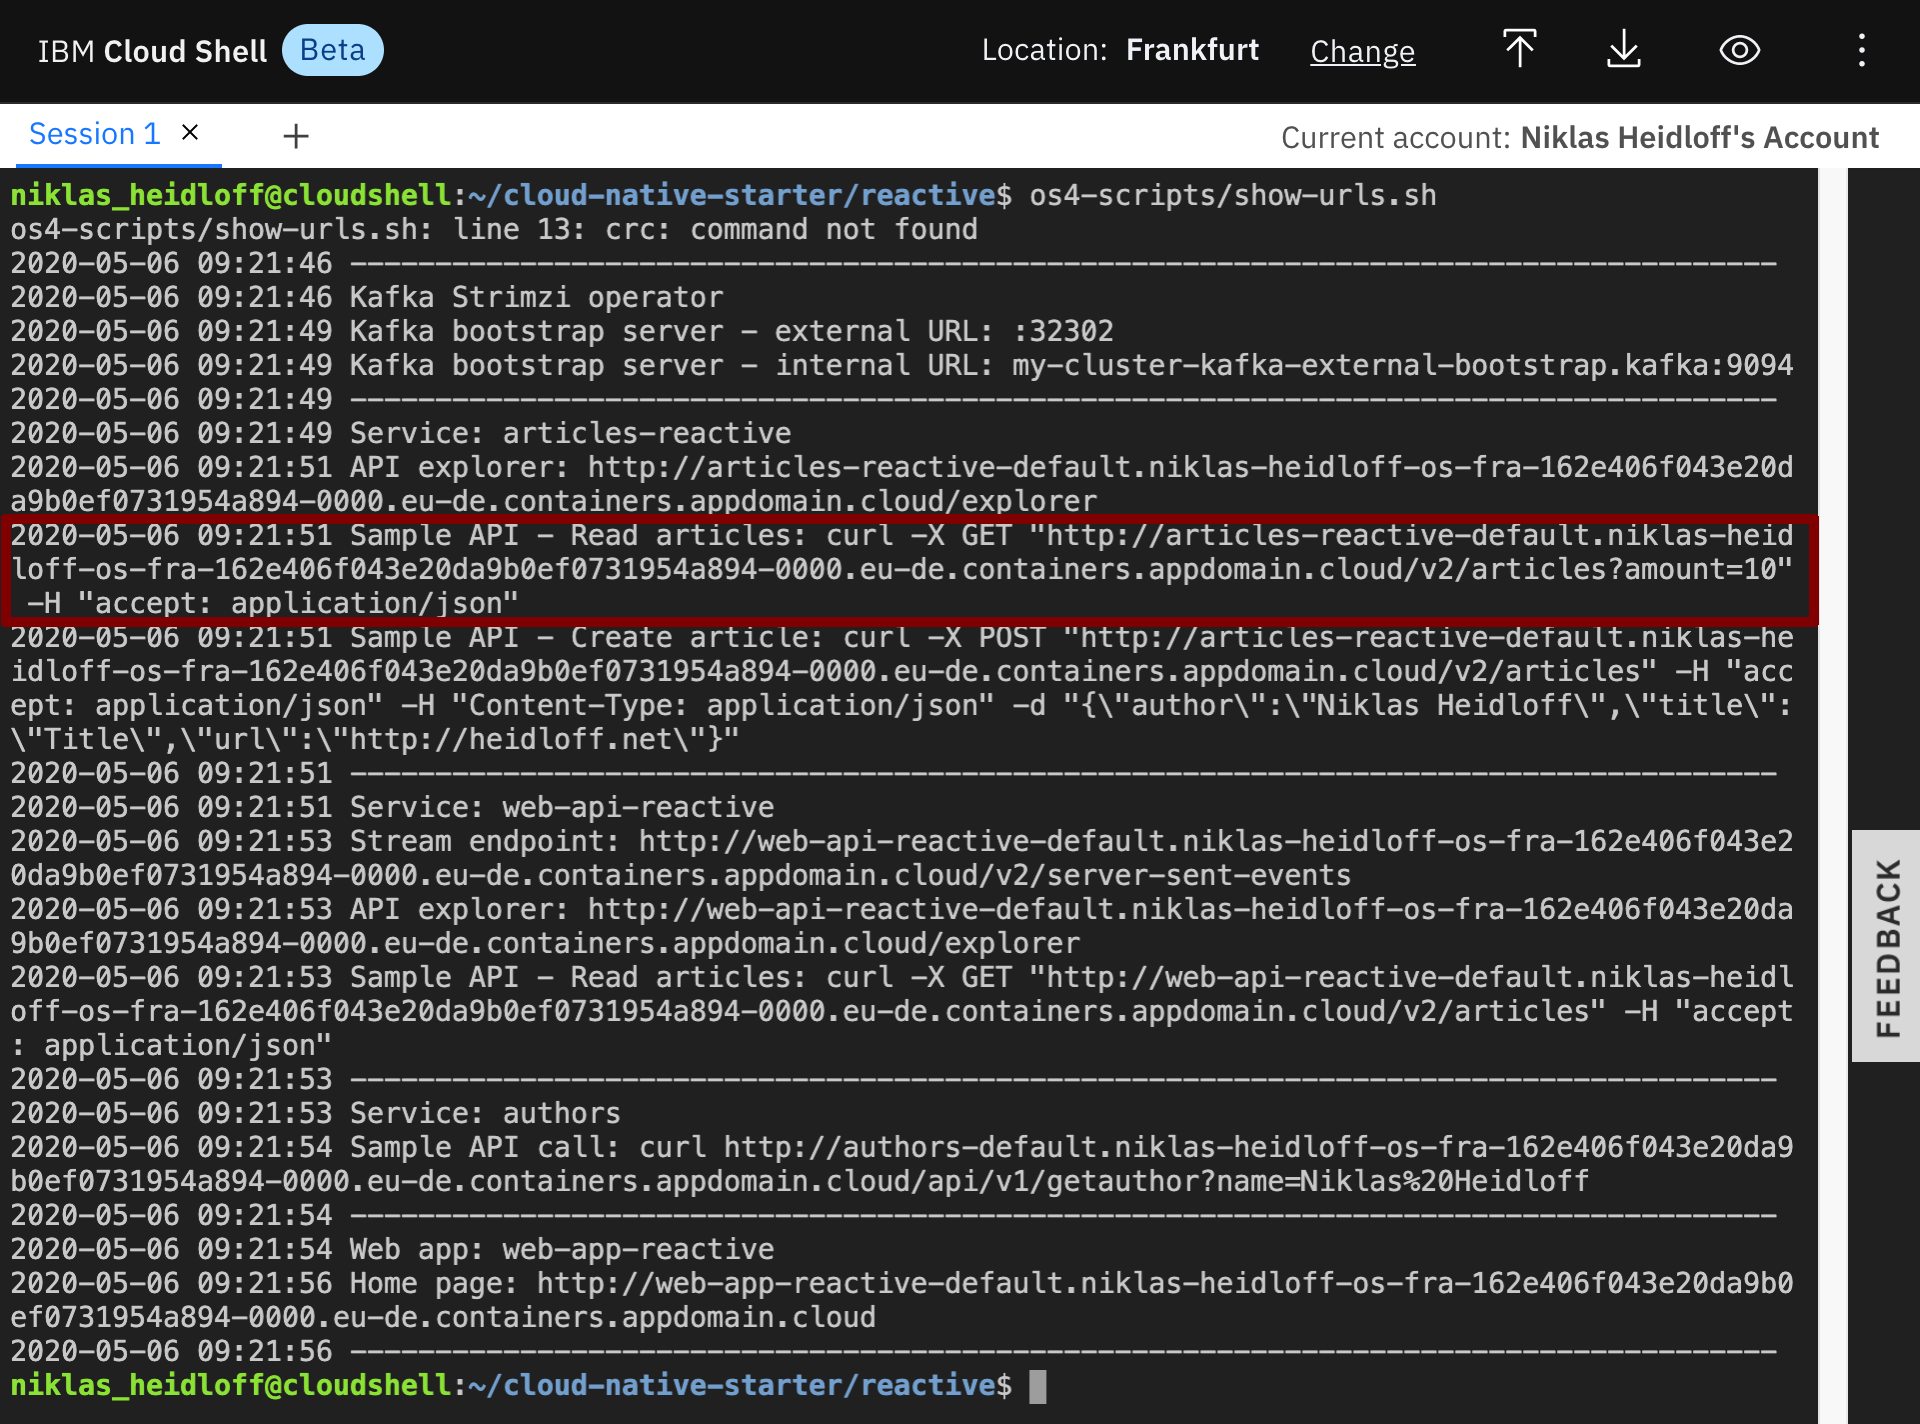
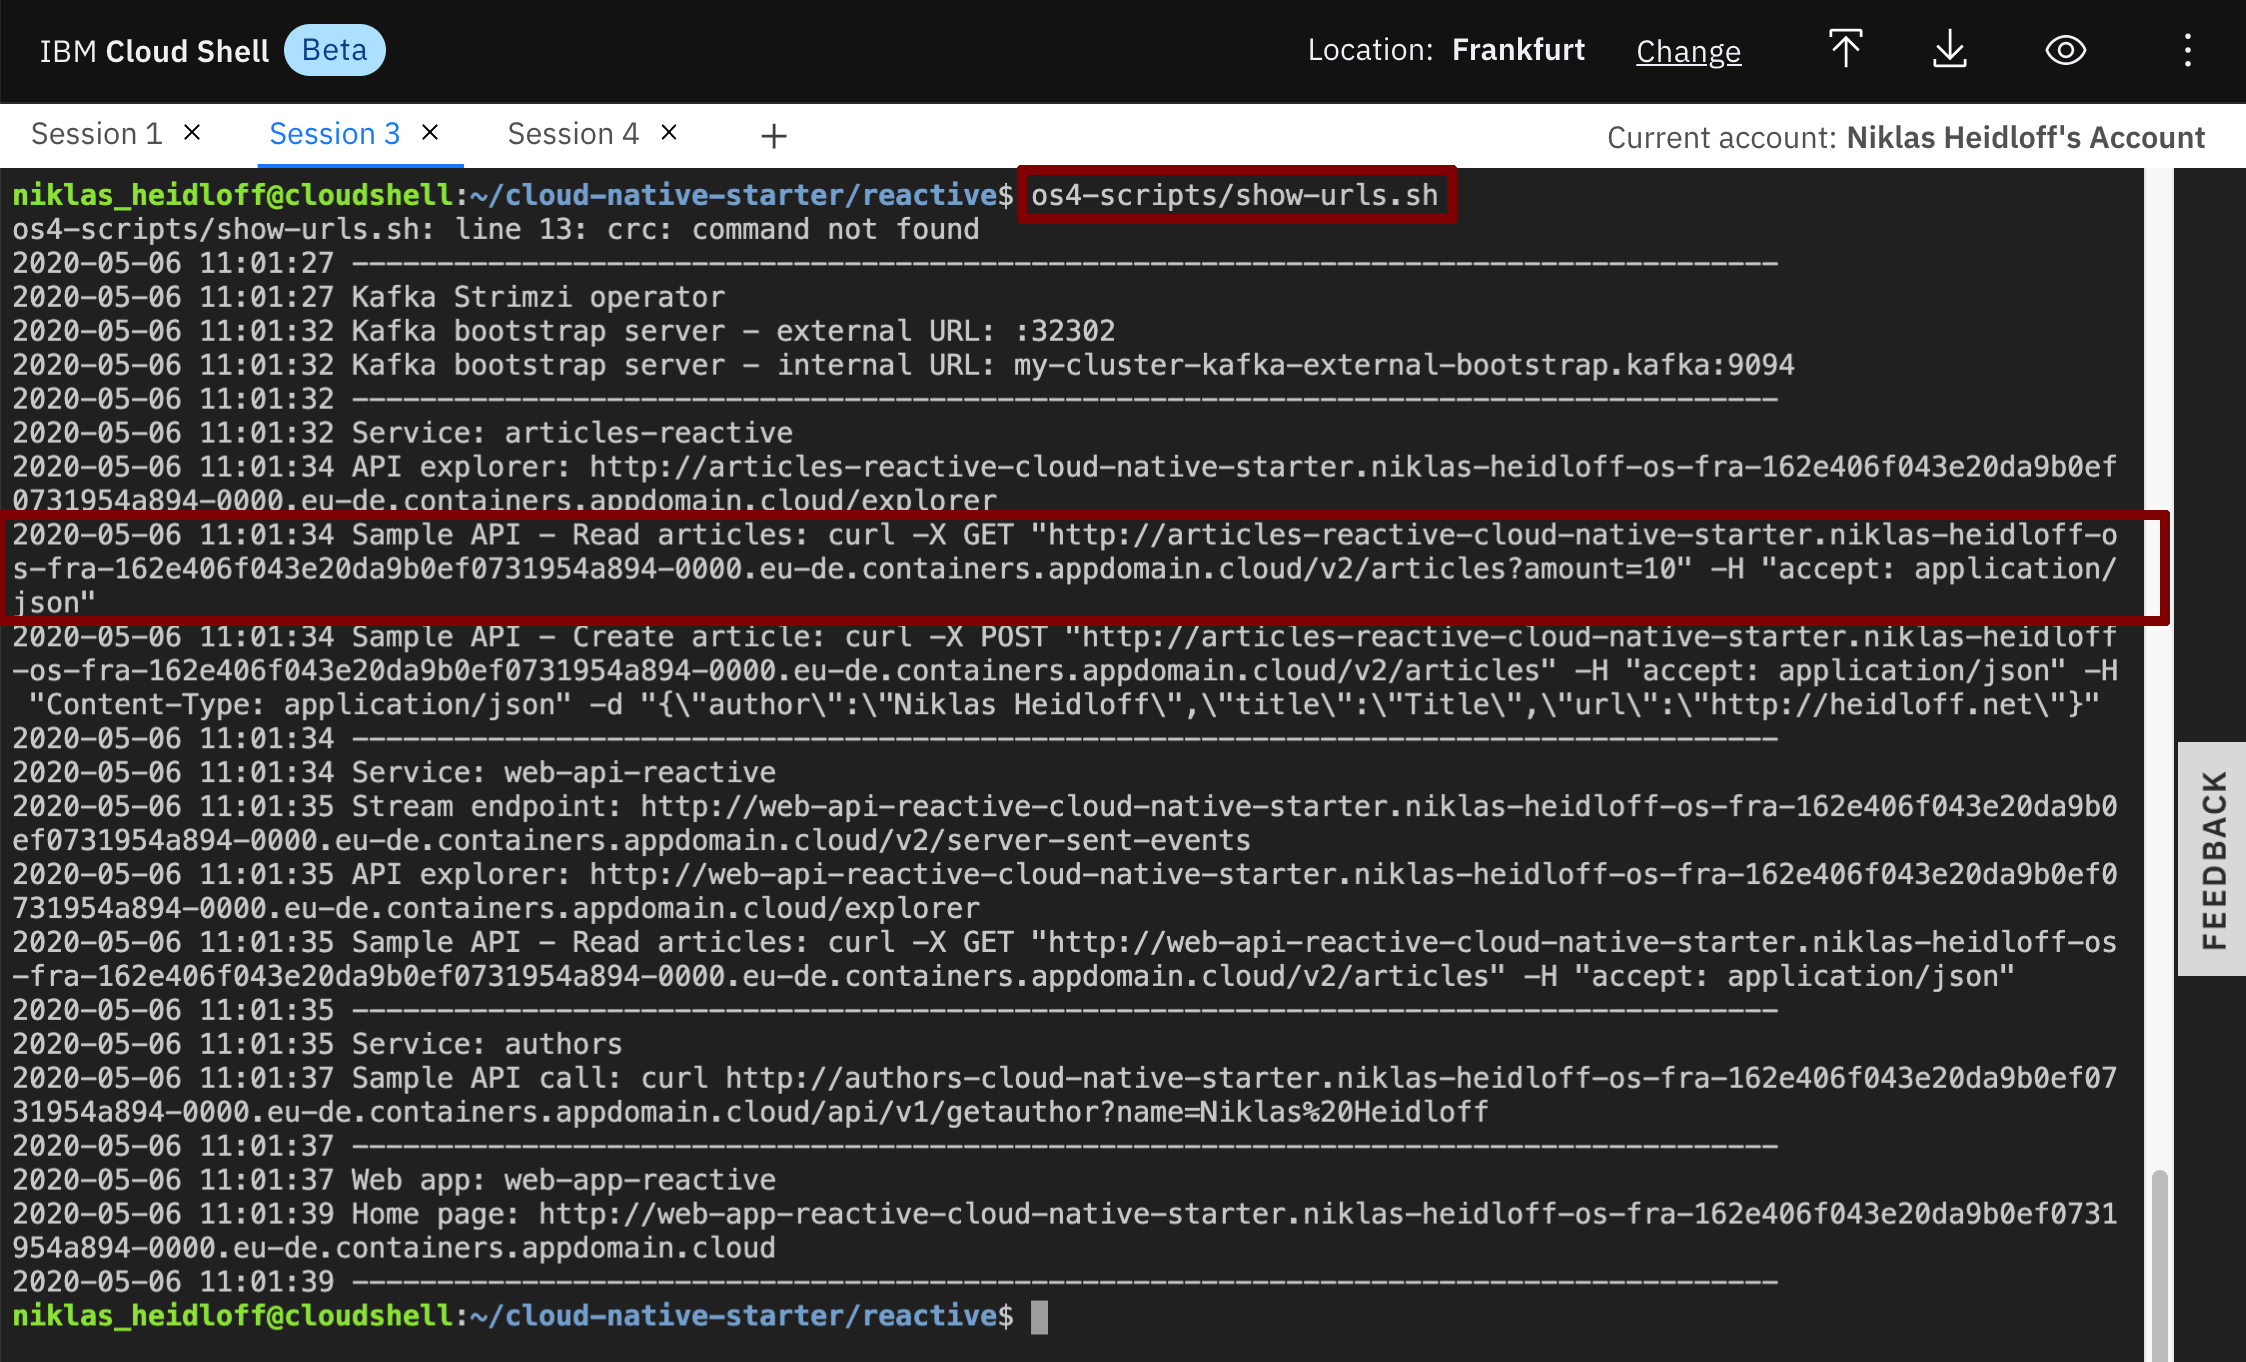
fix paths

diff --git a/finish/rest-json-quickstart/src/main/java/org/acme/rest/json/ArticlesDataAccess.java b/finish/rest-json-quickstart/src/main/java/org/acme/rest/json/ArticlesDataAccess.java
@@ -27,8 +27,6 @@ public class ArticlesDataAccess {
 
     @PostConstruct
     void initialize() {
-
-
         URI apiUrl = UriBuilder.fromUri(urlArticlesServiceOpenShift).build();
         articlesService = RestClientBuilder.newBuilder()
                 .baseUri(apiUrl)
@@ -36,11 +34,17 @@ public class ArticlesDataAccess {
                 .build(ArticlesService.class);
     }
 
+    // Java 8
+    public CompletionStage<List<Article>> getArticlesReactive(int amount) {
+        return articlesService.getArticlesFromService(amount);
+    }
 
+    /*
+    // Java 9 or higher
     public CompletionStage<List<Article>> getArticlesReactive(int amount) {
         return articlesService.getArticlesFromService(amount)
                 .toCompletableFuture()
                 .orTimeout(MAXIMAL_DURATION, TimeUnit.MILLISECONDS);
     }
-
+    */
 }

diff --git a/labs/lab6.md b/labs/lab6.md
@@ -39,7 +39,7 @@ In order to map HTTP response codes to Java exceptions, a ResponseExceptionMappe
 Create the class [InvalidInputParameter.java](https://github.com/nheidloff/workshop-quarkus-openshift-reactive-endpoints/blob/master/finish/rest-json-quickstart/src/main/java/org/acme/rest/json/InvalidInputParameter.java). This exception is thrown by the 'Articles' service when the amount parameter is not correct, for example if the value is negative.
 
 ```
-$ cd ~/rest-json-quickstart/src/main/java/org/acme/rest/json/
+$ cd ~/cloud-native-starter/reactive/rest-json-quickstart/src/main/java/org/acme/rest/json/
 $ touch InvalidInputParameter.java
 $ nano InvalidInputParameter.java
 ```
@@ -66,7 +66,7 @@ Create the class [ExceptionMapperArticles.java](https://github.com/nheidloff/wor
 
 
 ```
-$ cd ~/rest-json-quickstart/src/main/java/org/acme/rest/json/
+$ cd ~/cloud-native-starter/reactive/rest-json-quickstart/src/main/java/org/acme/rest/json/
 $ touch ExceptionMapperArticles.java
 $ nano ExceptionMapperArticles.java
 ```
@@ -109,7 +109,7 @@ Note that the annotations @Get and @Produces can be confusing. These are the JAX
 Also note that the service does not return a Response object directly. Instead it returns a CompletionStage object with a Response object as described earlier. With the MicroProfile Rest Client you can invoke services both synchronously as well as asynchronously.
 
 ```
-$ cd ~/rest-json-quickstart/src/main/java/org/acme/rest/json/
+$ cd ~/cloud-native-starter/reactive/rest-json-quickstart/src/main/java/org/acme/rest/json/
 $ touch ArticlesService.java
 $ nano ArticlesService.java
 ```
@@ -142,7 +142,7 @@ Create the class [ArticlesDataAccess.java](https://github.com/nheidloff/workshop
 
 
 ```
-$ cd ~/rest-json-quickstart/src/main/java/org/acme/rest/json/
+$ cd ~/cloud-native-starter/reactive/rest-json-quickstart/src/main/java/org/acme/rest/json/
 $ touch ArticlesDataAccess.java
 $ nano ArticlesDataAccess.java
 ```
@@ -194,7 +194,7 @@ public class ArticlesDataAccess {
 In a second terminal run the following command to get the URL of your 'Articles' service.
 
 ```
-$ cd $ROOT_FOLDER
+$ cd ~/cloud-native-starter/reactive
 $ os4-scripts/show-urls.sh
 ```
 
@@ -207,7 +207,7 @@ Exit the Editor via 'Ctrl-X', 'y' and 'Enter'.
 In the last step you need to modify [ArticleResource.java](https://github.com/nheidloff/workshop-quarkus-openshift-reactive-endpoints/blob/master/finish/rest-json-quickstart/src/main/java/org/acme/rest/json/ArticleResource.java) from the previous lab to invoke the actual service rather than returning a sample article.
 
 ```
-$ cd ~/rest-json-quickstart/src/main/java/org/acme/rest/json/
+$ cd ~/cloud-native-starter/reactive/rest-json-quickstart/src/main/java/org/acme/rest/json/
 $ nano ArticleResource.java
 ```
 
@@ -245,7 +245,7 @@ $ nano ArticleResource.java
 In order to test the reactive endpoint, run these commands in one terminal in the Cloud Shell.
 
 ```
-$ cd ~/rest-json-quickstart
+$ cd ~/cloud-native-starter/reactive/rest-json-quickstart
 $ ./mvnw compile quarkus:dev
 ```
 

diff --git a/labs/lab5.md b/labs/lab5.md
@@ -24,6 +24,7 @@ The service that will be created is an easier implementation of the 'Web-API' se
 Let's start by creating a new Quarkus project with a synchronous REST endpoint. Invoke the following command the Cloud Shell.
 
 ```
+$ cd ~/cloud-native-starter/reactive
 $ mvn io.quarkus:quarkus-maven-plugin:1.4.1.Final:create \
     -DprojectGroupId=org.acme \
     -DprojectArtifactId=rest-json-quickstart \
@@ -39,7 +40,7 @@ To better understand which files have been created, run the same command locally
 In order to test the synchronous endpoint which has been created with the command above, run these commands in one terminal in the Cloud Shell.
 
 ```
-$ cd rest-json-quickstart
+$ cd ~/cloud-native-starter/reactive/rest-json-quickstart
 $ ./mvnw compile quarkus:dev
 ```
 
@@ -56,7 +57,7 @@ You should see the following response.
 The implementation of the synchronous endpoint is in the class [FruitResource.java](https://github.com/nheidloff/workshop-quarkus-openshift-reactive-endpoints/blob/master/finish/rest-json-quickstart/src/main/java/org/acme/rest/json/FruitResource.java). The annotations @Path, @Get and @Produces are used to define the endpoint via [JAX-RS](https://en.wikipedia.org/wiki/Java_API_for_RESTful_Web_Services). To learn more about synchronous endpoints, check out the [Quarkus guide](https://quarkus.io/guides/rest-json).
 
 ```
-$ cd rest-json-quickstart/src/main/java/org/acme/rest/json/
+$ cd ~/cloud-native-starter/reactive/rest-json-quickstart/src/main/java/org/acme/rest/json/
 $ cat FruitResource.java 
 ```
 
@@ -67,7 +68,7 @@ $ cat FruitResource.java
 Next let's create a reactive endpoint. We need a new class 'ArticleResource.java' and a class 'Article.java'.
 
 ```
-$ cd ~/rest-json-quickstart/src/main/java/org/acme/rest/json/
+$ cd ~/cloud-native-starter/reactive/rest-json-quickstart/src/main/java/org/acme/rest/json/
 $ touch Article.java 
 $ touch ArticleResource.java 
 $ nano Article.java
@@ -94,7 +95,7 @@ Exit the Editor via 'Ctrl-X', 'y' and 'Enter'.
 Modify the ArticleResource class via nano and add the following skeleton. The complete source is in the [GitHub repo](https://github.com/nheidloff/workshop-quarkus-openshift-reactive-endpoints/blob/master/finish/rest-json-quickstart/src/main/java/org/acme/rest/json/ArticleResource.java).
 
 ```
-$ cd ~/rest-json-quickstart/src/main/java/org/acme/rest/json/
+$ cd ~/cloud-native-starter/reactive/rest-json-quickstart/src/main/java/org/acme/rest/json/
 $ nano ArticleResource.java
 ```
 
